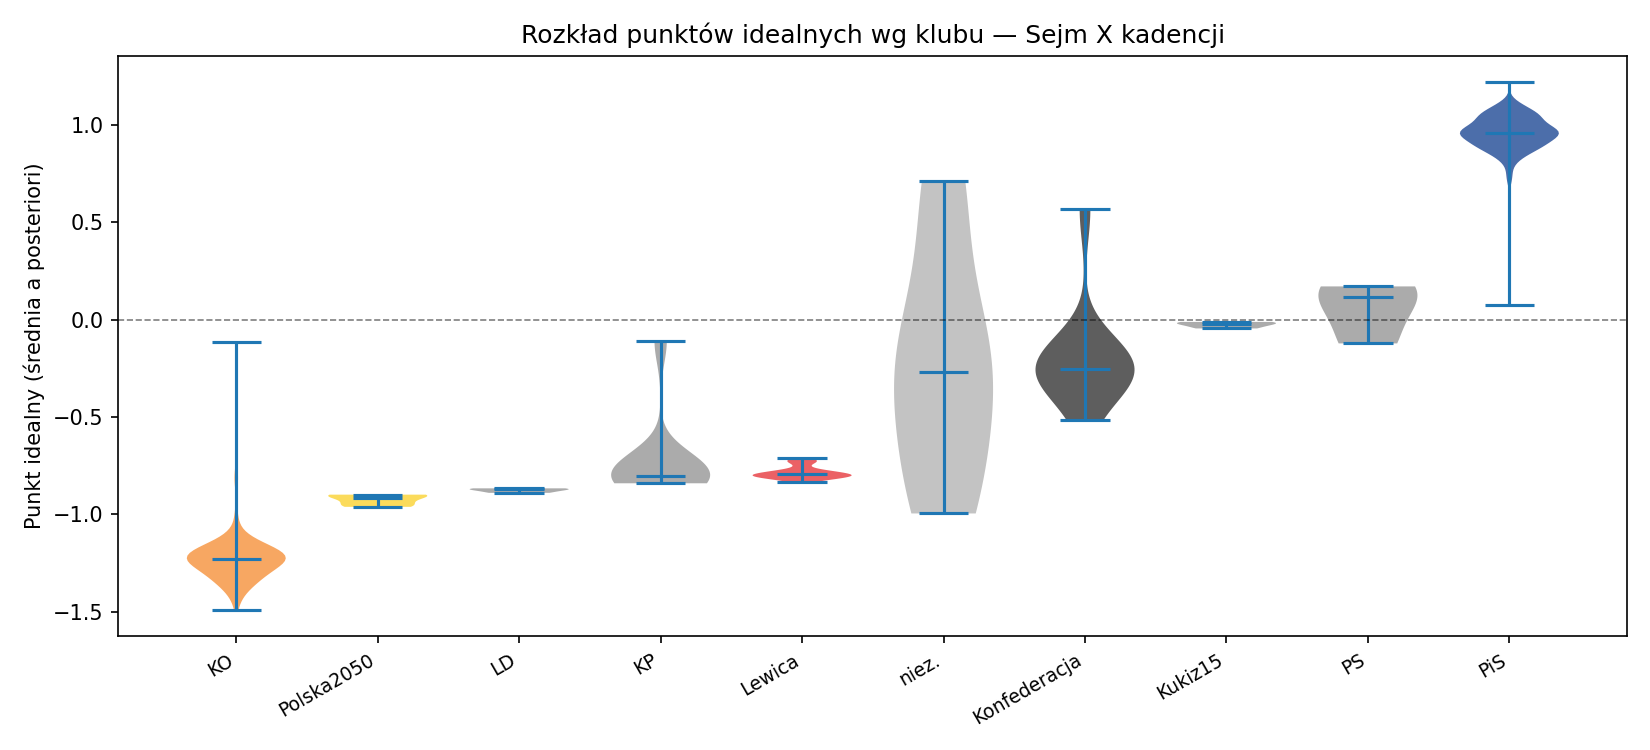
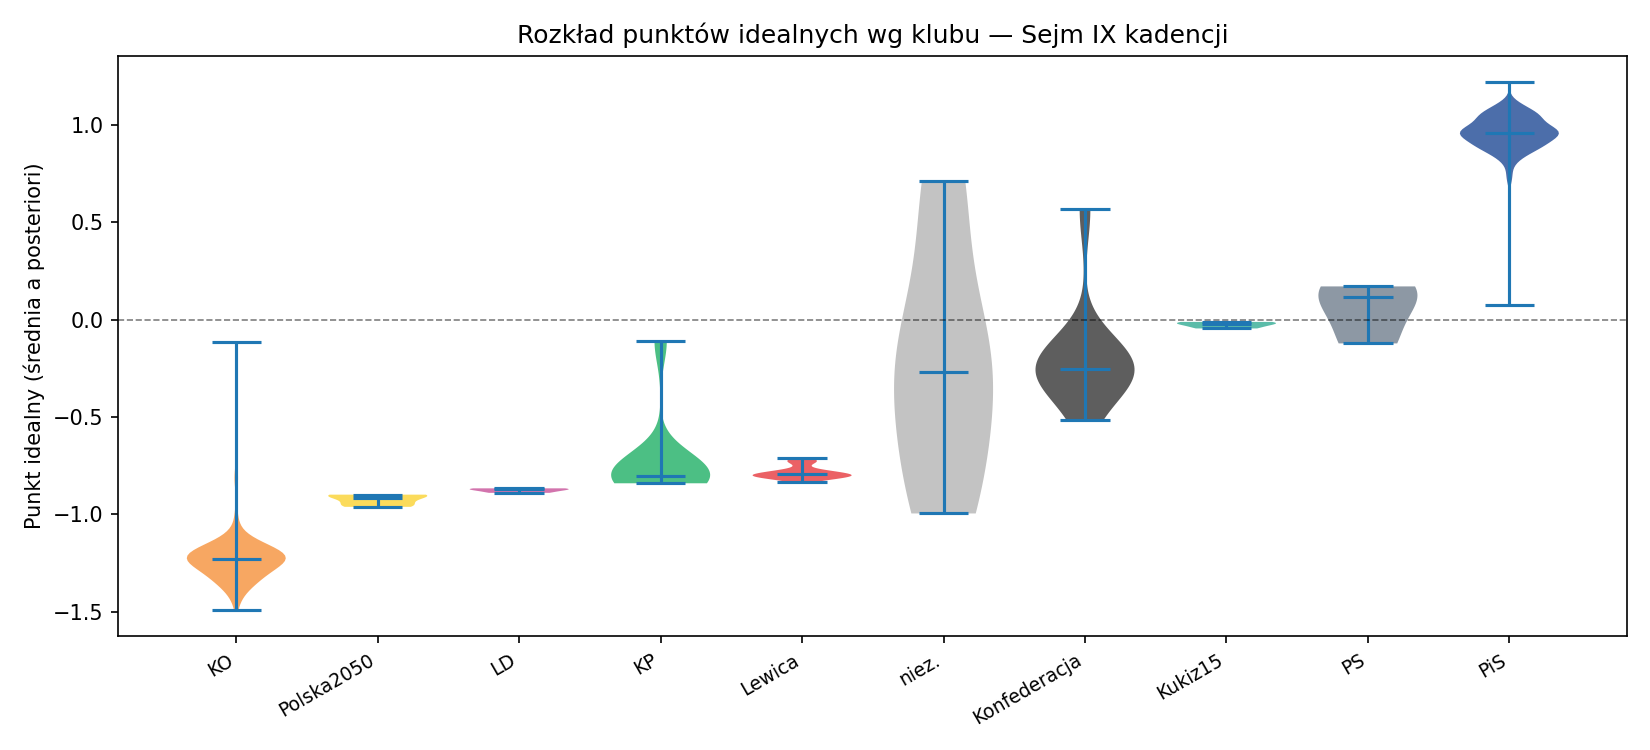
Color VII-IX clubs in figures; label term; parameterize exports for VIII term
visualize.py: extend the club palette to VII-IX clubs (PO, PO-KO, PSL-KP, Kukiz15, UPR, ...) and take a term label for titles (figures previously hard-coded 'X kadencji'). run.py passes the label; replot.py regenerates figures from saved draws without re-running. make_site_data/make_model_params learn the VIII/VII terms (TERM_INFO; model_params reads the continuation checkpoint's averaged beta/alpha; MPs with no club label -> 'niez.'). Refresh VIII (20000-draw) and IX figures.

diff --git a/replot.py b/replot.py
@@ -1,0 +1,52 @@
+"""
+Regenerate the result figures (ideal_points / club_distributions / trace) for a
+term from its saved posterior draws — without re-running the sampler. Prefers the
+extended continuation checkpoint results/draws{tag}_x.npz if present, else the
+original results/draws{tag}.npz.
+
+Usage:
+  python replot.py --term term8
+"""
+
+import argparse
+import os
+import warnings
+warnings.filterwarnings("ignore")
+import numpy as np
+
+from fetch_data import fetch_rollcall
+from visualize import plot_ideal_points, plot_club_distributions, plot_trace
+
+ROMAN = {"term10": "X kadencji", "term9": "IX kadencji",
+         "term8": "VIII kadencji", "term7": "VII kadencji"}
+
+
+def main():
+    ap = argparse.ArgumentParser()
+    ap.add_argument("--term", default="term8")
+    ap.add_argument("--input", default=None, help="override draws .npz path")
+    args = ap.parse_args()
+    tag = "" if args.term == "term10" else f"_{args.term}"
+
+    ext = f"results/draws{tag}_x.npz"
+    path = args.input or (ext if os.path.exists(ext) else f"results/draws{tag}.npz")
+    print(f"[{args.term}] plotting from {path}")
+
+    d = np.load(path)
+    x = d["x"]                                   # (chains, draws, n_mps)
+    mp_ids = list(d["mp_ids"])
+    mp_info = fetch_rollcall(term=args.term, verbose=False)["mp_info"]
+    label = ROMAN.get(args.term, args.term)
+    x_flat = x.reshape(-1, x.shape[-1])
+    print(f"  draws: {x.shape} (chains, samples, MPs)")
+
+    plot_ideal_points(x_flat, mp_ids, mp_info, term_label=label,
+                      save_path=f"results/ideal_points{tag}.png")
+    plot_club_distributions(x_flat, mp_ids, mp_info, term_label=label,
+                            save_path=f"results/club_distributions{tag}.png")
+    plot_trace(x, mp_ids, mp_info, save_path=f"results/trace{tag}.png")
+    print("Done.")
+
+
+if __name__ == "__main__":
+    main()

diff --git a/visualize.py b/visualize.py
@@ -24,6 +24,26 @@ CLUB_COLORS = {
     "Centrum":         "#1DACD6",  # light blue
     "Demokracja":      "#00BFA5",  # teal
     "niez.":           "#AAAAAA",  # gray (independents)
+    # --- historical terms (VII–IX): same family hues as the X-term palette ---
+    "PO":              "#F5821F",  # Platforma — same camp as KO (orange)
+    "PO-KO":           "#F5821F",  # Platforma–Koalicja Obywatelska (orange)
+    "PSL":             "#00A550",  # PSL — green
+    "PSL-KP":          "#00A550",  # PSL / Koalicja Polska — green
+    "PSL-UED":         "#4CAF50",  # PSL-UED — lighter green
+    "KP":              "#00A550",  # Koalicja Polska — green
+    "Kukiz15":         "#16A085",  # Kukiz'15 — teal
+    "SLD":             "#E31E24",  # left — red
+    "LD":              "#C0398B",  # magenta
+    "PS":              "#5D6D7E",  # slate
+    "UPR":             "#5D3A9B",  # purple
+    "PP":              "#A0522D",  # brown
+    "TERAZ!":          "#00ACC1",  # cyan
+    "WiS":             "#9C27B0",  # purple-magenta
+    "ZP":              "#2C5AA0",  # blue variant
+    "RP":              "#C2185B",  # Ruch Palikota — crimson
+    "TR":              "#AD1457",  # Twój Ruch — crimson variant
+    "BC":              "#795548",  # brown
+    "KPSP":            "#8D6E63",  # brown variant
 }
 DEFAULT_COLOR = "#888888"
 
@@ -36,7 +56,7 @@ def _clubs_for(mp_ids: list, mp_info: pd.DataFrame) -> list:
     return [mp_info.loc[mid, "club"] if mid in mp_info.index else "" for mid in mp_ids]
 
 
-def plot_ideal_points(x_flat, mp_ids, mp_info, save_path=None):
+def plot_ideal_points(x_flat, mp_ids, mp_info, save_path=None, term_label="X kadencji"):
     """Strip plot of posterior mean ideal points (±90% CI), colored by club."""
     x_mean = x_flat.mean(axis=0)
     x_lo = np.percentile(x_flat, 5, axis=0)
@@ -58,7 +78,7 @@ def plot_ideal_points(x_flat, mp_ids, mp_info, save_path=None):
 
     ax.set_xlabel("Punkt idealny — główna oś podziału", fontsize=11)
     ax.set_yticks([])
-    ax.set_title("Punkty idealne posłów — Sejm X kadencji\n(średnia a posteriori ± 90% CI)", fontsize=12)
+    ax.set_title(f"Punkty idealne posłów — Sejm {term_label}\n(średnia a posteriori ± 90% CI)", fontsize=12)
     ax.axvline(0, color="black", linewidth=0.8, linestyle="--", alpha=0.5)
     plt.tight_layout()
     if save_path:
@@ -68,7 +88,7 @@ def plot_ideal_points(x_flat, mp_ids, mp_info, save_path=None):
     plt.close()
 
 
-def plot_club_distributions(x_flat, mp_ids, mp_info, save_path=None):
+def plot_club_distributions(x_flat, mp_ids, mp_info, save_path=None, term_label="X kadencji"):
     """Violin plot of per-MP posterior means grouped by club."""
     x_mean = x_flat.mean(axis=0)
     clubs = _clubs_for(mp_ids, mp_info)
@@ -90,7 +110,7 @@ def plot_club_distributions(x_flat, mp_ids, mp_info, save_path=None):
     ax.set_xticklabels(club_order, fontsize=9, rotation=30, ha="right")
     ax.axhline(0, color="black", linewidth=0.8, linestyle="--", alpha=0.5)
     ax.set_ylabel("Punkt idealny (średnia a posteriori)")
-    ax.set_title("Rozkład punktów idealnych wg klubu — Sejm X kadencji")
+    ax.set_title(f"Rozkład punktów idealnych wg klubu — Sejm {term_label}")
     plt.tight_layout()
     if save_path:
         plt.savefig(save_path, dpi=150); print(f"Saved: {save_path}")

diff --git a/make_model_params.py b/make_model_params.py
@@ -8,6 +8,7 @@ Model: P(za) = Phi(beta_j * x_i - alpha_j); model cutting point x* = alpha_j/bet
 
 import argparse
 import json
+import os
 import numpy as np
 from fetch_data import fetch_rollcall, filter_rollcall
 
@@ -19,9 +20,16 @@ def main():
     tag = "" if args.term == "term10" else f"_{args.term}"
     OUT = f"docs/model_params{tag}.json"
 
-    d = np.load(f"results/draws{tag}.npz", allow_pickle=True)
-    beta = d["beta"].reshape(-1, d["beta"].shape[-1]).mean(0)    # (n_votes,)
-    alpha = d["alpha"].reshape(-1, d["alpha"].shape[-1]).mean(0)
+    # Prefer the extended continuation checkpoint (posterior means over ALL combined
+    # draws); otherwise fall back to the original full-draw npz and average it.
+    ext = f"results/draws{tag}_x.npz"
+    if os.path.exists(ext):
+        d = np.load(ext)
+        beta, alpha = d["beta_mean"], d["alpha_mean"]           # (n_votes,)
+    else:
+        d = np.load(f"results/draws{tag}.npz", allow_pickle=True)
+        beta = d["beta"].reshape(-1, d["beta"].shape[-1]).mean(0)
+        alpha = d["alpha"].reshape(-1, d["alpha"].shape[-1]).mean(0)
 
     # filtered vote_meta is in the same column order as beta/alpha (deterministic)
     vm = filter_rollcall(fetch_rollcall(term=args.term, verbose=False))["vote_meta"]
@@ -33,7 +41,6 @@ def main():
     }
     with open(OUT, "w", encoding="utf-8") as f:
         json.dump(params, f, separators=(",", ":"))
-    import os
     print(f"Wrote {OUT}: {len(params)} votes ({os.path.getsize(OUT)/1024:.0f} KB)")
 
 

diff --git a/run.py b/run.py
@@ -110,9 +110,11 @@ def main():
         print(f"  {club:18s} {row['mean']:+.2f}  (n={int(row['count'])})")
 
     # --- Plots ---
-    plot_ideal_points(x_flat, mp_ids, mp_info,
+    term_label = {"term10": "X kadencji", "term9": "IX kadencji",
+                  "term8": "VIII kadencji", "term7": "VII kadencji"}.get(args.term, args.term)
+    plot_ideal_points(x_flat, mp_ids, mp_info, term_label=term_label,
                       save_path=os.path.join(RESULTS_DIR, f"ideal_points{tag}.png"))
-    plot_club_distributions(x_flat, mp_ids, mp_info,
+    plot_club_distributions(x_flat, mp_ids, mp_info, term_label=term_label,
                             save_path=os.path.join(RESULTS_DIR, f"club_distributions{tag}.png"))
     plot_trace(out["x"], mp_ids, mp_info,
                save_path=os.path.join(RESULTS_DIR, f"trace{tag}.png"))

diff --git a/make_site_data.py b/make_site_data.py
@@ -24,6 +24,10 @@ TERM_INFO = {
                "term": "X kadencja (od XI 2023)"},
     "term9":  {"title": "Punkty idealne posłów — Sejm IX kadencji",
                "term": "IX kadencja (2019–2023)"},
+    "term8":  {"title": "Punkty idealne posłów — Sejm VIII kadencji",
+               "term": "VIII kadencja (2015–2019)"},
+    "term7":  {"title": "Punkty idealne posłów — Sejm VII kadencji",
+               "term": "VII kadencja (2011–2015)"},
 }
 
 
@@ -74,6 +78,7 @@ def main():
     info = TERM_INFO.get(term, {"title": f"Punkty idealne — {term}", "term": term})
 
     df = pd.read_csv(csv_path).sort_values("x_mean").reset_index(drop=True)
+    df["club"] = df["club"].fillna("niez.")   # MPs with no club label -> unaffiliated
     behaviour, n_votes = compute_behaviour(df, term)
 
     df["rank"] = np.arange(1, len(df) + 1)